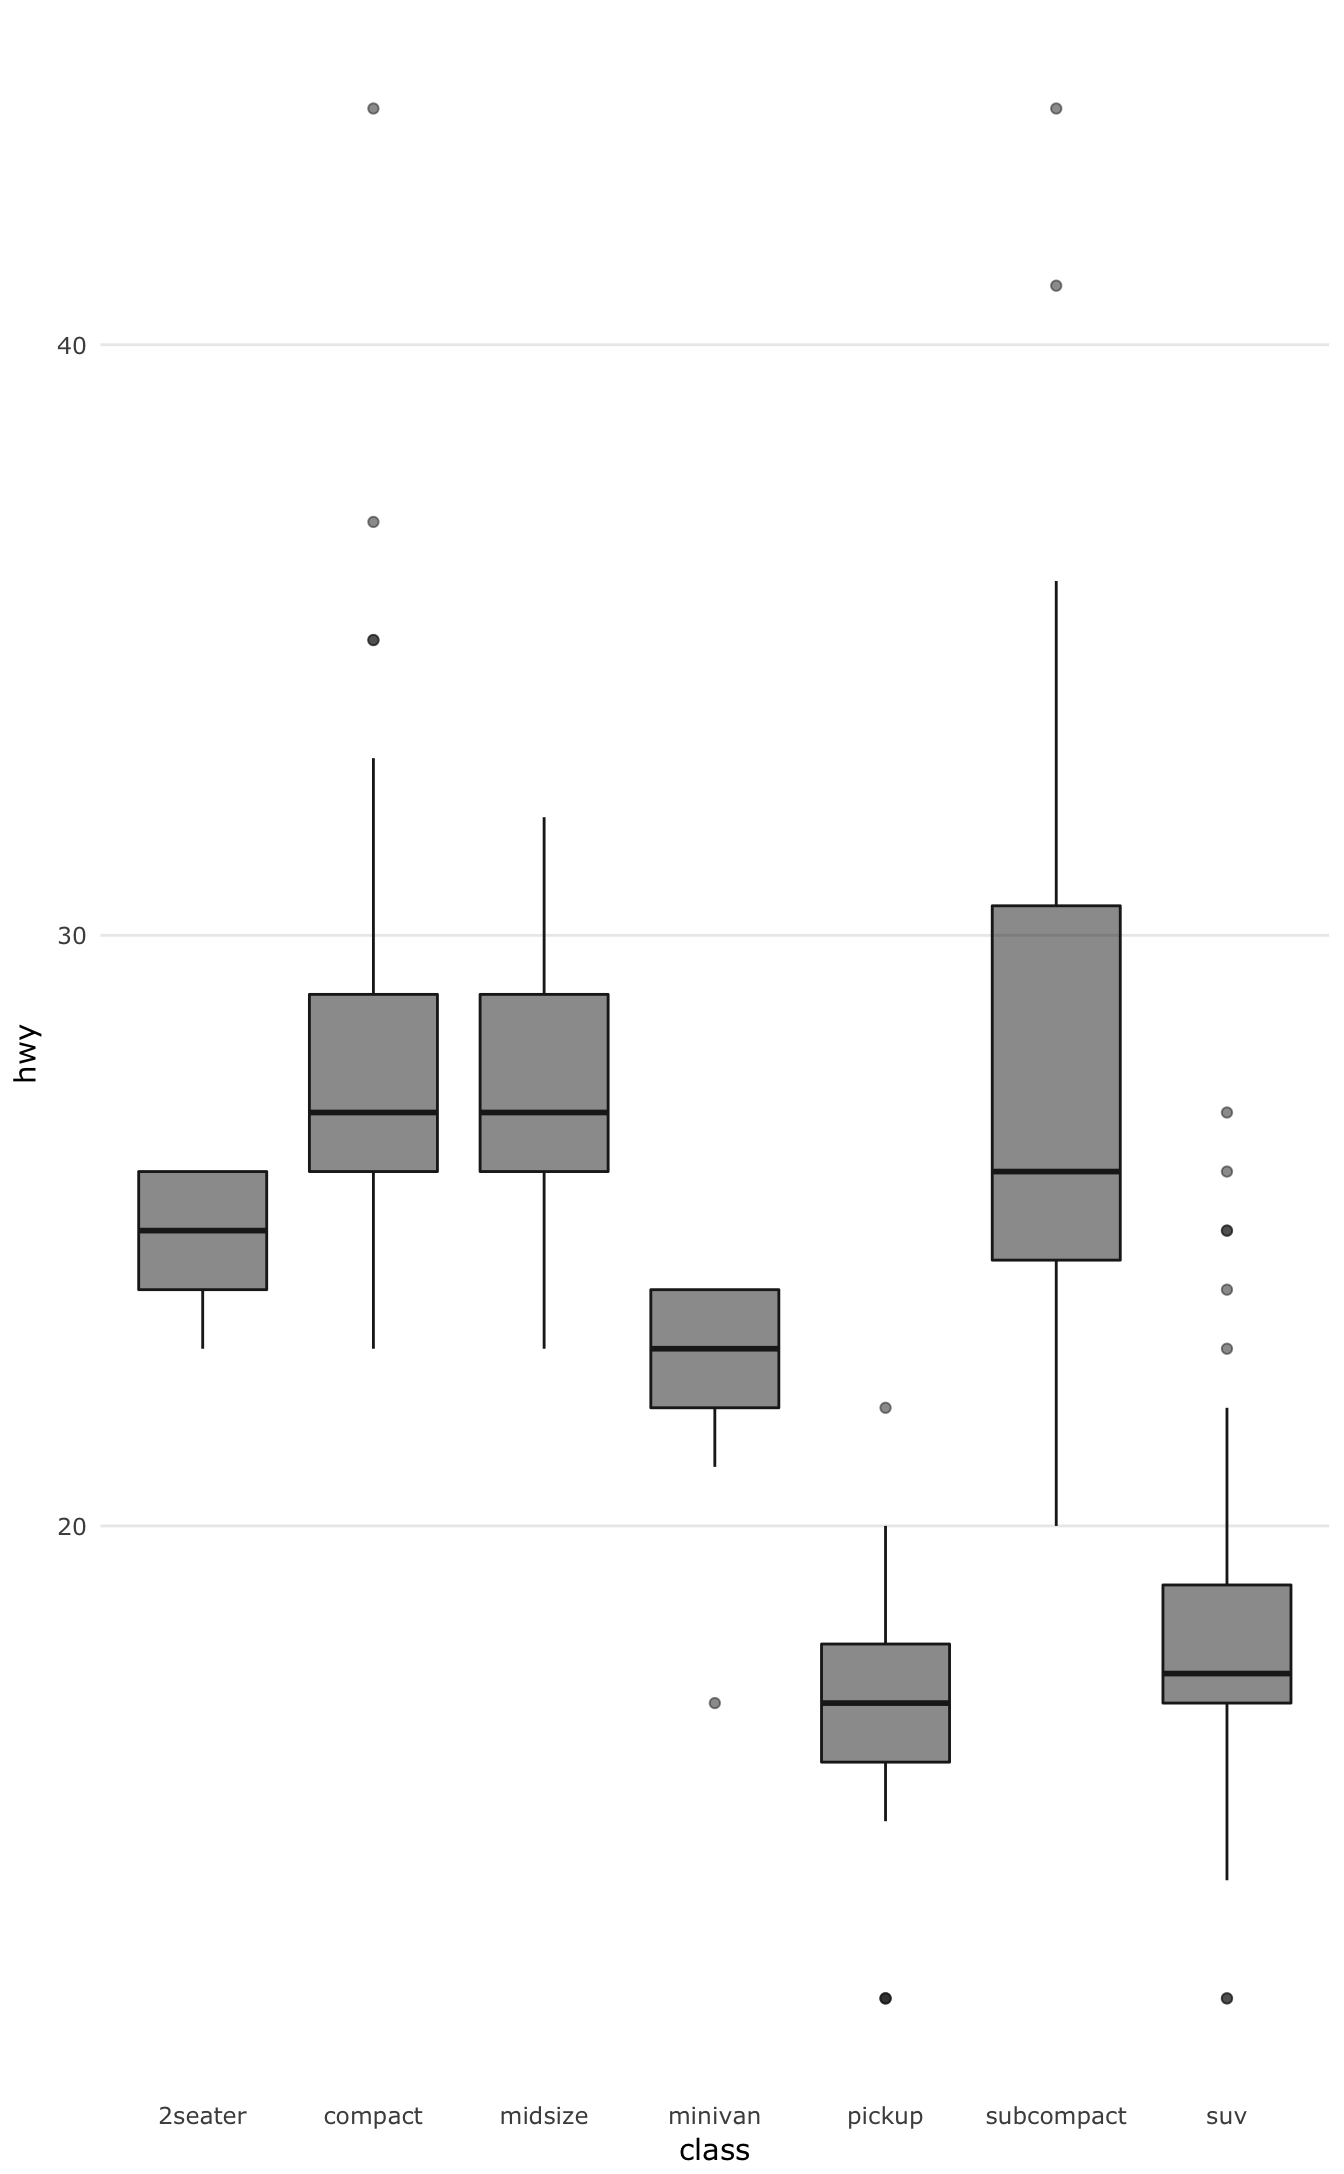
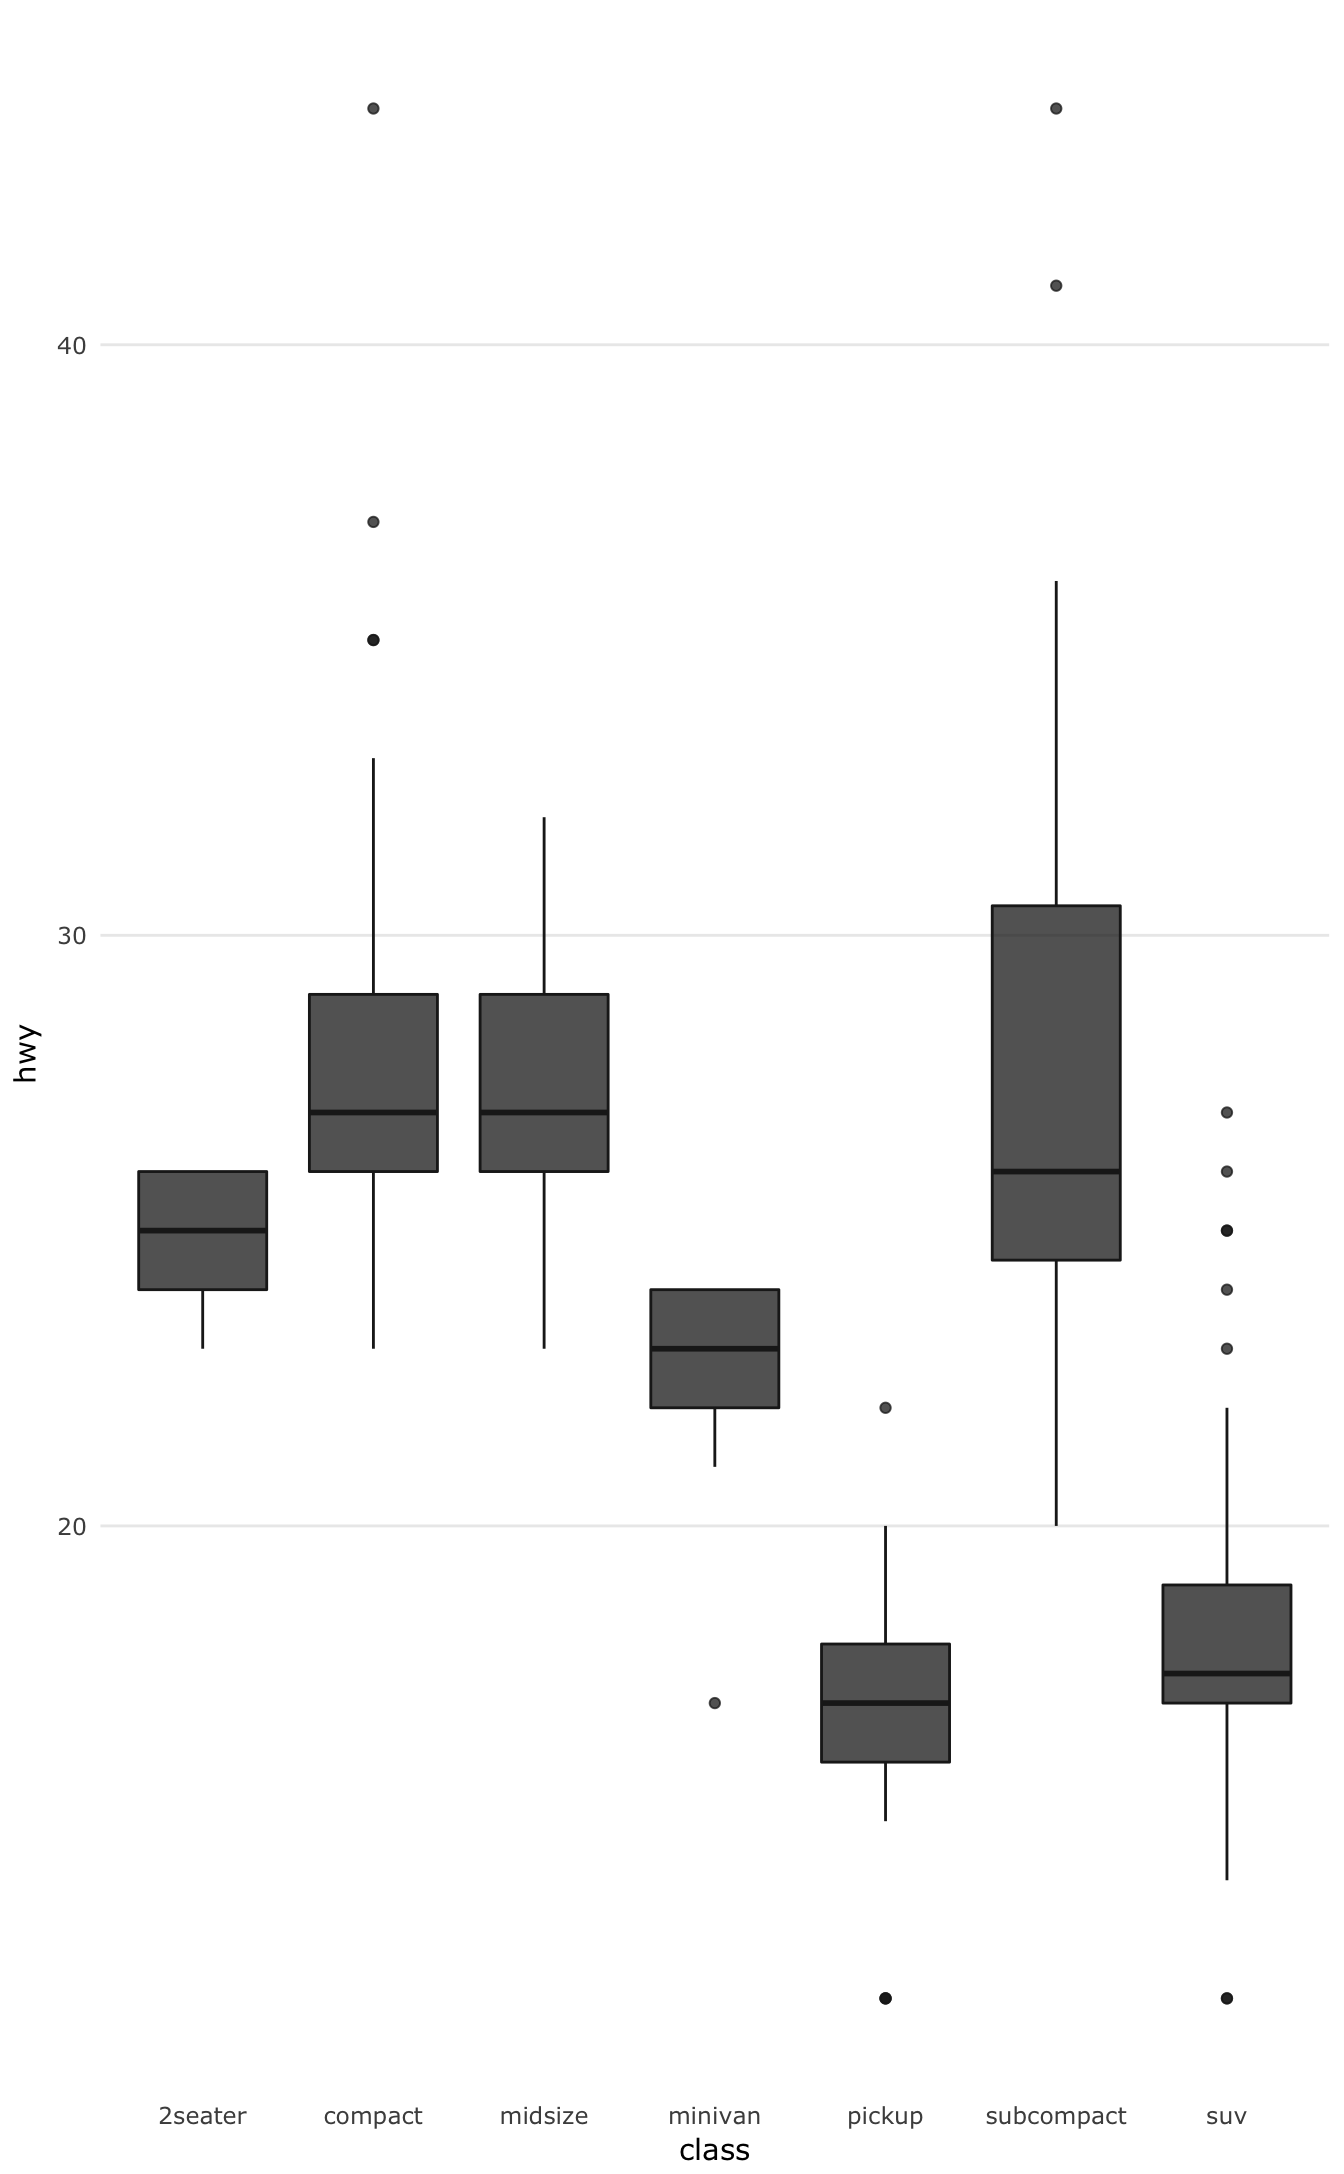
Use alpha = 0.75

diff --git a/docs/articles/theme.usq.html b/docs/articles/theme.usq.html
@@ -277,7 +277,7 @@
 <a href="#using-ggplot2-and-theme_usq-3" class="anchor"></a>Using <em>ggplot2</em> and <code><a href="../reference/theme_usq.html">theme_usq()</a></code>
 </h4>
 <div class="sourceCode" id="cb14"><pre class="sourceCode r"><code class="sourceCode r"><a class="sourceLine" id="cb14-1" data-line-number="1">p5 &lt;-<span class="st"> </span><span class="kw"><a href="http://www.rdocumentation.org/packages/ggplot2/topics/ggplot">ggplot</a></span>(mpg, <span class="kw"><a href="http://www.rdocumentation.org/packages/ggplot2/topics/aes">aes</a></span>(class, hwy)) <span class="op">+</span></a>
-<a class="sourceLine" id="cb14-2" data-line-number="2"><span class="st">  </span><span class="kw"><a href="http://www.rdocumentation.org/packages/ggplot2/topics/geom_boxplot">geom_boxplot</a></span>(<span class="dt">alpha =</span> <span class="fl">0.5</span>,</a>
+<a class="sourceLine" id="cb14-2" data-line-number="2"><span class="st">  </span><span class="kw"><a href="http://www.rdocumentation.org/packages/ggplot2/topics/geom_boxplot">geom_boxplot</a></span>(<span class="dt">alpha =</span> <span class="fl">0.75</span>,</a>
 <a class="sourceLine" id="cb14-3" data-line-number="3">               <span class="dt">fill =</span> <span class="kw"><a href="../reference/usq_cols.html">usq_cols</a></span>(<span class="st">"usq charcoal"</span>),</a>
 <a class="sourceLine" id="cb14-4" data-line-number="4">               <span class="dt">colour =</span> <span class="kw"><a href="../reference/usq_cols.html">usq_cols</a></span>(<span class="st">"usq charcoal"</span>)) <span class="op">+</span></a>
 <a class="sourceLine" id="cb14-5" data-line-number="5"><span class="st">  </span><span class="kw"><a href="../reference/theme_usq.html">theme_usq</a></span>()</a>
@@ -360,7 +360,7 @@
 <div class="sourceCode" id="cb20"><pre class="sourceCode r"><code class="sourceCode r"><a class="sourceLine" id="cb20-1" data-line-number="1">p8 &lt;-<span class="st">  </span><span class="kw"><a href="http://www.rdocumentation.org/packages/ggplot2/topics/ggplot">ggplot</a></span>(mpg, <span class="kw"><a href="http://www.rdocumentation.org/packages/ggplot2/topics/aes">aes</a></span>(class, hwy)) <span class="op">+</span></a>
 <a class="sourceLine" id="cb20-2" data-line-number="2"><span class="st">  </span><span class="kw"><a href="http://www.rdocumentation.org/packages/ggplot2/topics/geom_boxplot">geom_boxplot</a></span>(<span class="dt">fill =</span> <span class="kw"><a href="../reference/usq_cols.html">usq_cols</a></span>(<span class="st">"usq charcoal"</span>),</a>
 <a class="sourceLine" id="cb20-3" data-line-number="3">               <span class="dt">colour =</span> <span class="kw">usq_palette</span>(<span class="st">"usq charcoal"</span>),</a>
-<a class="sourceLine" id="cb20-4" data-line-number="4">               <span class="dt">alpha =</span> <span class="fl">0.5</span>) <span class="op">+</span></a>
+<a class="sourceLine" id="cb20-4" data-line-number="4">               <span class="dt">alpha =</span> <span class="fl">0.75</span>) <span class="op">+</span></a>
 <a class="sourceLine" id="cb20-5" data-line-number="5"><span class="st">  </span><span class="kw"><a href="../reference/theme_usq.html">theme_usq</a></span>(<span class="dt">base_size =</span> <span class="dv">24</span>) <span class="op">+</span></a>
 <a class="sourceLine" id="cb20-6" data-line-number="6"><span class="st">  </span><span class="kw"><a href="http://www.rdocumentation.org/packages/ggplot2/topics/theme">theme</a></span>(<span class="dt">axis.text.x =</span> <span class="kw"><a href="http://www.rdocumentation.org/packages/ggplot2/topics/element">element_text</a></span>(<span class="dt">angle =</span> <span class="dv">45</span>, <span class="dt">hjust =</span> <span class="dv">1</span>))</a>
 <a class="sourceLine" id="cb20-7" data-line-number="7"></a>

diff --git a/docs/index.html b/docs/index.html
@@ -272,7 +272,7 @@
 <a href="#using-ggplot2-and-theme_usq-3" class="anchor"></a>Using <em>ggplot2</em> and <code><a href="reference/theme_usq.html">theme_usq()</a></code>
 </h4>
 <div class="sourceCode" id="cb14"><pre class="sourceCode r"><code class="sourceCode r"><a class="sourceLine" id="cb14-1" data-line-number="1">p5 &lt;-<span class="st"> </span><span class="kw"><a href="http://www.rdocumentation.org/packages/ggplot2/topics/ggplot">ggplot</a></span>(mpg, <span class="kw"><a href="http://www.rdocumentation.org/packages/ggplot2/topics/aes">aes</a></span>(class, hwy)) <span class="op">+</span></a>
-<a class="sourceLine" id="cb14-2" data-line-number="2"><span class="st">  </span><span class="kw"><a href="http://www.rdocumentation.org/packages/ggplot2/topics/geom_boxplot">geom_boxplot</a></span>(<span class="dt">alpha =</span> <span class="fl">0.5</span>,</a>
+<a class="sourceLine" id="cb14-2" data-line-number="2"><span class="st">  </span><span class="kw"><a href="http://www.rdocumentation.org/packages/ggplot2/topics/geom_boxplot">geom_boxplot</a></span>(<span class="dt">alpha =</span> <span class="fl">0.75</span>,</a>
 <a class="sourceLine" id="cb14-3" data-line-number="3">               <span class="dt">fill =</span> <span class="kw"><a href="reference/usq_cols.html">usq_cols</a></span>(<span class="st">"usq charcoal"</span>),</a>
 <a class="sourceLine" id="cb14-4" data-line-number="4">               <span class="dt">colour =</span> <span class="kw"><a href="reference/usq_cols.html">usq_cols</a></span>(<span class="st">"usq charcoal"</span>)) <span class="op">+</span></a>
 <a class="sourceLine" id="cb14-5" data-line-number="5"><span class="st">  </span><span class="kw"><a href="reference/theme_usq.html">theme_usq</a></span>()</a>
@@ -355,7 +355,7 @@
 <div class="sourceCode" id="cb20"><pre class="sourceCode r"><code class="sourceCode r"><a class="sourceLine" id="cb20-1" data-line-number="1">p8 &lt;-<span class="st">  </span><span class="kw"><a href="http://www.rdocumentation.org/packages/ggplot2/topics/ggplot">ggplot</a></span>(mpg, <span class="kw"><a href="http://www.rdocumentation.org/packages/ggplot2/topics/aes">aes</a></span>(class, hwy)) <span class="op">+</span></a>
 <a class="sourceLine" id="cb20-2" data-line-number="2"><span class="st">  </span><span class="kw"><a href="http://www.rdocumentation.org/packages/ggplot2/topics/geom_boxplot">geom_boxplot</a></span>(<span class="dt">fill =</span> <span class="kw"><a href="reference/usq_cols.html">usq_cols</a></span>(<span class="st">"usq charcoal"</span>),</a>
 <a class="sourceLine" id="cb20-3" data-line-number="3">               <span class="dt">colour =</span> <span class="kw">usq_palette</span>(<span class="st">"usq charcoal"</span>),</a>
-<a class="sourceLine" id="cb20-4" data-line-number="4">               <span class="dt">alpha =</span> <span class="fl">0.5</span>) <span class="op">+</span></a>
+<a class="sourceLine" id="cb20-4" data-line-number="4">               <span class="dt">alpha =</span> <span class="fl">0.75</span>) <span class="op">+</span></a>
 <a class="sourceLine" id="cb20-5" data-line-number="5"><span class="st">  </span><span class="kw"><a href="reference/theme_usq.html">theme_usq</a></span>(<span class="dt">base_size =</span> <span class="dv">24</span>) <span class="op">+</span></a>
 <a class="sourceLine" id="cb20-6" data-line-number="6"><span class="st">  </span><span class="kw"><a href="http://www.rdocumentation.org/packages/ggplot2/topics/theme">theme</a></span>(<span class="dt">axis.text.x =</span> <span class="kw"><a href="http://www.rdocumentation.org/packages/ggplot2/topics/element">element_text</a></span>(<span class="dt">angle =</span> <span class="dv">45</span>, <span class="dt">hjust =</span> <span class="dv">1</span>))</a>
 <a class="sourceLine" id="cb20-7" data-line-number="7"></a>

diff --git a/README.md b/README.md
@@ -265,7 +265,7 @@ boxplot_usq(mpg$hwy ~ mpg$class)
 
 ``` r
 p5 <- ggplot(mpg, aes(class, hwy)) +
-  geom_boxplot(alpha = 0.5,
+  geom_boxplot(alpha = 0.75,
                fill = usq_cols("usq charcoal"),
                colour = usq_cols("usq charcoal")) +
   theme_usq()
@@ -373,7 +373,7 @@ fills the whole slide.
 p8 <-  ggplot(mpg, aes(class, hwy)) +
   geom_boxplot(fill = usq_cols("usq charcoal"),
                colour = usq_palette("usq charcoal"),
-               alpha = 0.5) +
+               alpha = 0.75) +
   theme_usq(base_size = 24) +
   theme(axis.text.x = element_text(angle = 45, hjust = 1))
 
